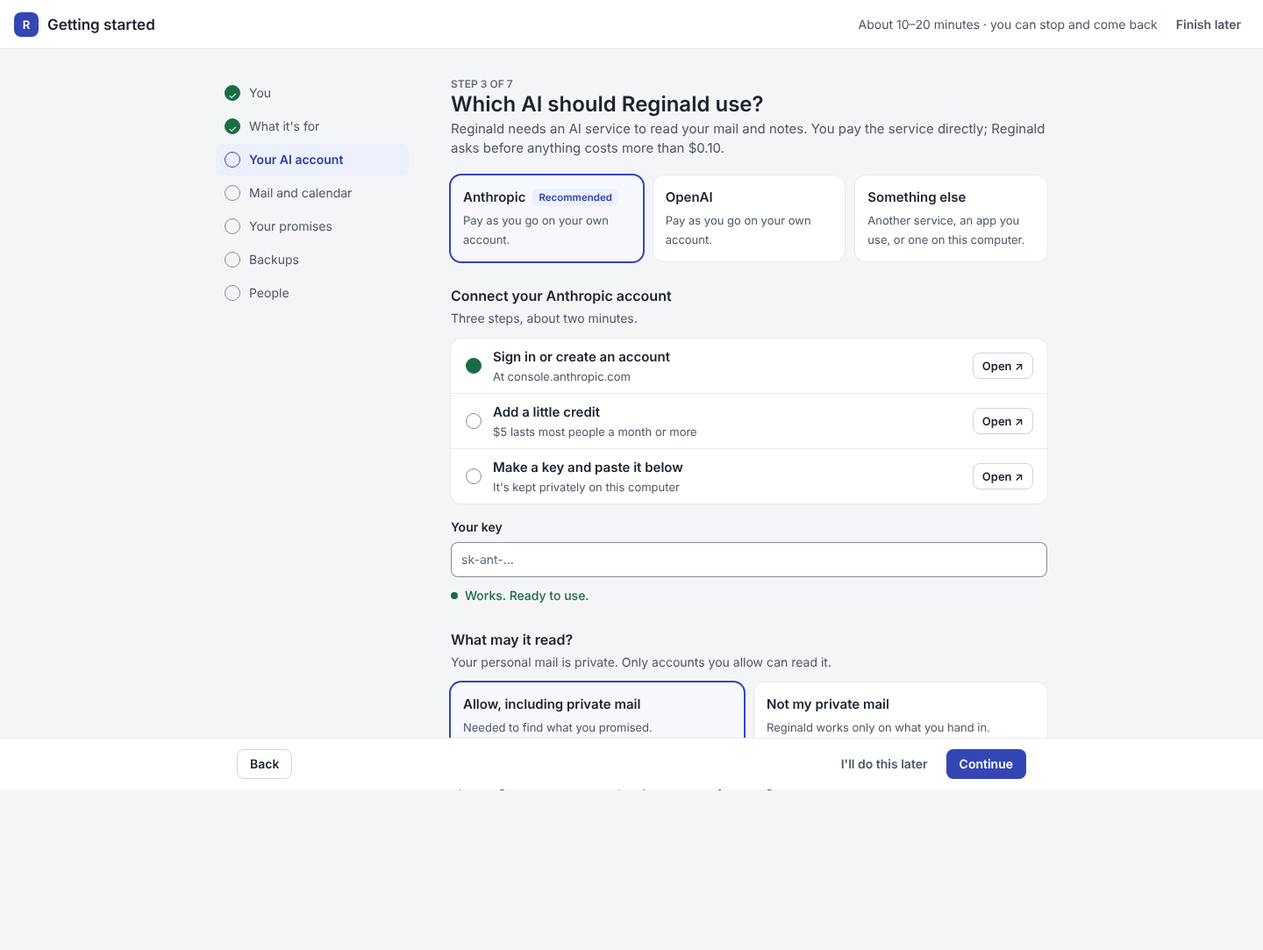
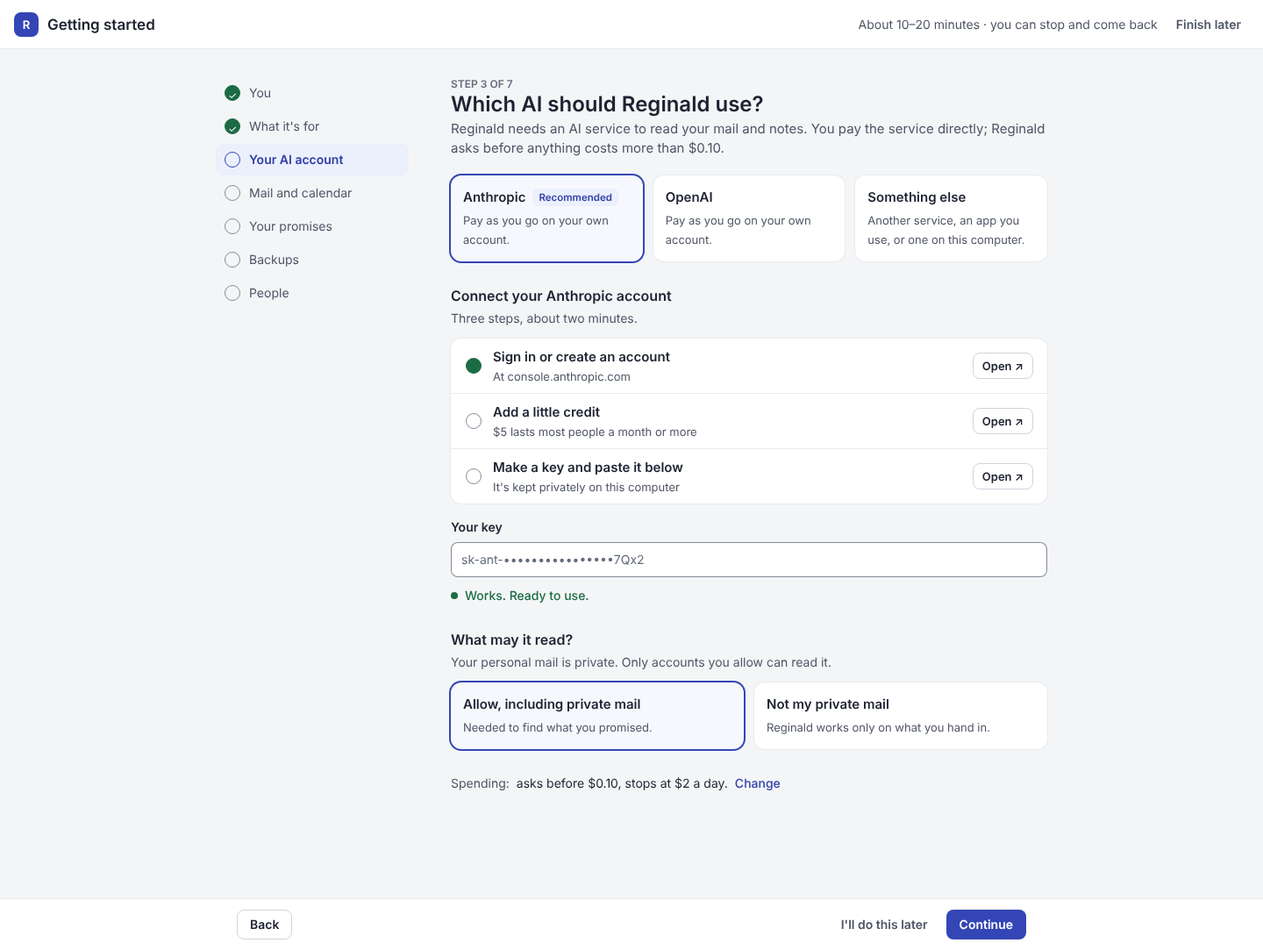
Visual review: path from 3.5 to 4.6
Adds PATH-TO-4.6.md: a cold re-score of the six mockups (3.6 on average),
what each rubric point needs at 3.5 and at 4.6, shared work VP01-VP15 in
two stages, a stricter scoring method, and exit criteria E13 (4.0) and
E14 (4.6), all mirrored in the tracking table. Fixes the setup mockup
render (footer over clipped content) and its key field, and re-renders
the mockups at full height.

Claude-Session: https://claude.ai/code/session_013bf5ZXfFsJPS4pTXMTMxYc

diff --git a/reviews/ui-ux-2026-10/sweep-04ffc21e/visual/mockups/setup-ai.html b/reviews/ui-ux-2026-10/sweep-04ffc21e/visual/mockups/setup-ai.html
@@ -11,7 +11,7 @@
   <div class="panel"><div class="row first"><div class="lead"><span class="check" style="background:var(--ok);border-color:var(--ok)"></span></div><div><div class="t">Sign in or create an account</div><div class="m">At console.anthropic.com</div></div><div class="acts"><a class="btn secondary sm">Open ↗</a></div></div>
   <div class="row"><div class="lead"><span class="check"></span></div><div><div class="t">Add a little credit</div><div class="m">$5 lasts most people a month or more</div></div><div class="acts"><a class="btn secondary sm">Open ↗</a></div></div>
   <div class="row"><div class="lead"><span class="check"></span></div><div><div class="t">Make a key and paste it below</div><div class="m">It's kept privately on this computer</div></div><div class="acts"><a class="btn secondary sm">Open ↗</a></div></div></div>
-  <div class="field" style="margin-top:16px"><label>Your key</label><div class="in">sk-ant-…</div></div>
+  <div class="field" style="margin-top:16px"><label>Your key</label><div class="in">sk-ant-••••••••••••••••7Qx2</div></div>
   <div class="okline" style="margin-top:10px"><span class="dot"></span>Works. Ready to use.</div></div>
  <div class="sect"><h2>What may it read?</h2><p>Your personal mail is private. Only accounts you allow can read it.</p>
   <div class="choice" style="grid-template-columns:1fr 1fr"><div class="opt on"><div class="n">Allow, including private mail</div><p>Needed to find what you promised.</p></div><div class="opt"><div class="n">Not my private mail</div><p>Reginald works only on what you hand in.</p></div></div></div>

diff --git a/reviews/ui-ux-2026-10/sweep-04ffc21e/visual/PATH-TO-4.6.md b/reviews/ui-ux-2026-10/sweep-04ffc21e/visual/PATH-TO-4.6.md
@@ -1,0 +1,152 @@
+# Path to 4.6: from "no longer looks broken" to "looks as good as the best"
+
+**Where this sits:** this extends `README.md` (the visual review at `04ffc21e`). The 3.5 bar in E9 is the gate for this round. This page sets the next two: **4.0 (E13)** and **4.6 (E14)**. It also covers the work, the standards and the scoring method for each.
+
+**For the host:** none of this blocks the current round. Finish E1–E12 first. The VP rows below are already in `../TRACKING.md`, under their stage, so nothing gets lost in between.
+
+## 1. Where we are
+
+| | Average | Lowest points | What it means |
+|---|---|---|---|
+| The app at `04ffc21e` | **2.6** | empty states, layout, hierarchy | Looks unfinished in places |
+| **The six mockups**, scored cold by a separate reviewer on the same rubric | **3.6** (3.5–3.7) | empty and edge states 2.5–3.0, phone 3.0–3.4, layout fit 3.0–3.7, components 3.5–3.7 | Clean and consistent, but not yet crafted |
+| Target | **4.6** | no point below 4.3 | A design lead at a top app company would ship it with only nits |
+
+**The honest consequence:** building the mockups exactly (E11) lands the app at about 3.5–3.7. That is enough for E9, and no more. **The gap to 4.6 is about one full point on every screen.** Most of it is in four places a static mockup doesn't show:
+1. **States:** empty, loading, error, offline, conflict, and 0, 1 or 100+ items.
+2. **The phone:** a real tab bar and rows that stack.
+3. **Interaction:** hover, pressed, focus, motion, keyboard and undo.
+4. **Craft:** shared edges, a tighter type scale, one primary per view, status that isn't colour alone.
+
+**Checked by the reviewer before acting on the cold scoring:**
+- **Correct:** the setup mockup's render was broken: the footer was stuck mid-page over clipped content. It's fixed and re-rendered, along with its before-and-after image. The setup mockup also showed "Works" next to an empty key. Now it shows a masked key.
+- **Not correct, so dropped:**
+  - "Meta text is below the contrast minimum." `--text-subtle` measures **4.91:1** on the page background and 5.0:1 on sunk wells, which passes AA.
+  - "The icons are placeholders." Only the mockups use placeholder squares. The app already has a line-icon set (`web/src/ui/Icon.tsx`).
+
+## 2. What each point needs, at 3.5 and at 4.6
+
+| Point | 3.5 looks like (this round) | 4.6 looks like (the target) |
+|---|---|---|
+| 1 Hierarchy | One primary per region; the page title says what the page is | **One primary per viewport**. The thing that needs the person outweighs everything else on screen. Supporting detail (a review list, a note) is folded until asked for. Every page leads with a one-line "so what" where it has numbers |
+| 2 Layout fit | No form-like lists, no pill column, no dead gutters | **Every block shares two edges** (one content grid). The rails end level with the main column or sit naturally under it. No card inside a card inside a card. The layout adapts to the amount of content: filters hidden below about 12 items, lists grouped by what matters (Overdue, Today, Upcoming) |
+| 3 Spacing | Consistent tokens | **One vertical rhythm**: two row heights, fixed gaps between sections. Titles in a list always start at the same x, whatever the row holds |
+| 4 Type | No 12px paragraphs; a defined scale | **A visible step at every level** (page 24, section 16, row 15, meta 13). Meta is in `--text-muted`, not subtle. No help paragraph on screen when a tooltip or toast at the moment of use can say it. Facts that matter are bolded in the meta ("30 min short") |
+| 5 Components | VC01–VC13 shared and used everywhere | **Two secondary styles only** (outline, accent text). **One status pattern** (a dot plus a word). Questions look different from to-dos. Every component has its hover, pressed, focus, disabled, loading and error states, shown in the style guide |
+| 6 Colour | Restrained accent; day and night both readable | **State is never colour alone:** a 3px edge or dot plus a word. Deltas have their direction defined once. Night cards lift off the canvas without needing their hairline. Focus is at least 3:1 on every surface, tinted rows included |
+| 7 Empty and edge | A designed EmptyState on every list | **A state sheet for every screen:** first run, filtered to nothing, loading (a skeleton matching row height, no layout shift), error with retry, offline or sync degraded, conflict ("Updated just now · See change"), and 0, 1 and 100+ |
+| 8 Phone | Nothing squeezed or broken | **Designed for a phone:** a 56px tab bar plus the safe area, 24px icons with labels and an active state, and add as a 44px accent circle. Rows stack their actions below the meta. Titles are never under 60% of the card's width. Filters live in one "Filter" sheet. Nothing hides under the bar |
+
+## 3. The ladder
+
+| Stage | Bar | Built from | Exit |
+|---|---|---|---|
+| **A, this round** | 3.5 overall, no point under 3 | VC01–VC13, the six mockups, the CI guards | E9–E12 |
+| **B, next round** | **4.0 overall, no point under 3.5**, including state and phone captures | Mockups v2 (VP14a), VP01–VP08 | **E13** |
+| **C, the target** | **4.6 overall, no point under 4.3**, by the stricter method in section 6 | Mockups v3 (VP14b), VP09–VP13, VP15 | **E14** |
+
+**Why in stages:** 4.6 is mostly craft, and craft only pays once the structure is right. Polishing the motion on a row that still has a pill column is wasted work. Each stage also builds the components the next stage polishes.
+
+## 4. The work: VP01–VP15
+
+Each VP row is shared work: fixed once, and every screen gains. The standards carry numbers so a check can verify them.
+
+| ID | Stage | What | The standard | Seen in the mockups |
+|---|---|---|---|---|
+| **VP01** | B | **One content grid** | A `--content-max` token. Title, filters, primary button, list, cards and setup footer all share the same left and right edges. The right rail ends level with the main column or flows under it | To-dos: the list ends at x=1244 while its controls end at 1408. Today: the inner table is inset 12px. Setup: the footer is narrower than the column. Connections: the sub-menu top sits off the title |
+| **VP02** | B | **Row anatomy v2** | A fixed lead slot: 0, 24 (check) or 56 (pill). Titles share one left edge. Two row heights from tokens (one-line and two-line meta). Titles clamp at two lines and meta truncates at one, with a tooltip. The owner is shown only when it isn't you. A question has its own glyph, not a tickable circle | Today: Clash titles at x=337 against 300. To-dos: "Robin Calloway" on five of six rows. Person: a question drawn as a to-do |
+| **VP03** | B | **Type scale v2** | Page title 24/30. Section 16/600. Row 15/600. Meta 13 `--text-muted`. Group labels 11 uppercase with 0.04em tracking and a readable count. 12px only for pills and column headers. Deltas at least 13px | The same bold-15 plus grey-13 pair repeats about 18 times on Today. Counts in group labels get lost. Quality deltas are the smallest text in their tile |
+| **VP04** | B | **Primary discipline** | At most one filled button per viewport. The header's "Hand something in" turns secondary on pages that have their own primary. Two secondary styles only (outline, accent text). No bare-text buttons. Today's "Look over N things" is folded by default | Today shows three filled buttons at once and four secondary styles. To-dos has two add actions. Person leads with "Edit" when the main action is "Add a to-do" or "Draft a message" |
+| **VP05** | B | **Status and state rows** | One `.status` (a dot plus a word, 13px) replaces the three pill styles. `row[data-state=warn\|danger]` gets a 3px left edge and a soft tint. Delta direction is defined once (up is good or bad, per measure). The header status reflects any failing connection | Connections: a retrying row looks healthy, and the header still says "All good". To-dos: overdue is shown in red text only |
+| **VP06** | B | **Night elevation and focus** | `--surface` 2–3 L above `--canvas` by night, plus a 1px inner highlight on cards. A focus ring of at least 3:1 on every surface, the tinted decide rows and selected cards included | Night cards register only by their hairline |
+| **VP07** | B | **A state sheet per screen** | For every inventory screen: first run, filtered to nothing, loading (a skeleton at the real row height, within 150ms, no layout shift), error with retry, offline or sync degraded, conflict, and 0, 1 and 100+. Each shown in the style guide and in mockups v2 | No mockup shows any state but the happy path, except one retrying row and one empty field. Quality shows "3 mistakes" over two rows, and a date range that doesn't match its table |
+| **VP08** | B | **Phone shell** | A tab bar 56px plus the safe area, 24px icons, 11px labels, an active state, and a centre add as a 44px accent circle. Search and Hand in become header icons. At 480px and under, row actions drop below the meta. Titles at least 60% of the card's width. Filters in one sheet. Bottom padding equal to the bar's height | Today's phone render: a text-only bar, the Decide title squeezed to about 100px over four lines, left edges at 28 and 48. To-dos: the add button and three filter pills push content down about 240px |
+| **VP09** | C | **Interaction and motion** | Hover within 100ms, pressed within 60ms. Row actions reveal at 120ms ease-out with no layout shift. Ticking fills the circle in 150ms, collapses the row in 200ms, and shows an Undo toast with a visible countdown. Expanding takes 200ms, keeps the trigger in place, and survives a polling refresh (nothing new moves the target under the cursor). Overlays scale in from 0.98 over 200ms, with a scrim, a focus trap, Esc to close, and focus back on the trigger. All through `--dur-*`, so reduced motion turns it off | Not visible in a mockup. The tokens and the reduced-motion rule already exist in `tokens.css` |
+| **VP10** | C | **Keyboard** | `/` search, `j`/`k` move, `x` or Space tick, `e` edit, Enter open, Esc close and return focus. Shortcuts appear in tooltips and in the `?` sheet. Focus order matches reading order | Not visible in a mockup |
+| **VP11** | C | **Content resilience** | Long names, roles, emails and folder paths: paths truncate in the middle, emails truncate with a tooltip. 40+ rows. 99+ counts. Dates in words for the locale. 24-hour time where set. Text up to 30% longer. **Add long-name and many-item fixtures to both fictional workspaces** so every capture exercises them | Person: the email ends 10px from the card edge and will overflow. Connections: a raw folder path |
+| **VP12** | C | **In-between widths** | Checked at 1024 and 768 as well as 1440 and 390. The right rail drops under the main column below 1100. The left menu folds to icons below 900. No sideways scroll anywhere from 360 to 1920 | Only 1440 and 390 are rendered. At 1024, Today's main column would get about 450px |
+| **VP13** | C | **Hit targets** | Touch: 24px visible, 44px to hit. Desktop: 32px minimum to hit. At least 8px between neighbours. The "…" is at least 4.5:1 when shown and fully opaque on hover | To-dos: 18px check circles and a 16px "…" |
+| **VP14** | B, C | **Mockups v2, then v3** (reviewer's work) | **v2:** fixes every per-mockup gap in section 5, adds phone renders for all six, a state sheet per mockup, and real icons. Re-scored cold, it must reach 4.0. **v3:** the polish pass with short interaction recordings (tick and undo, expand, open a drawer, keyboard through a list), re-scored cold to 4.6 | |
+| **VP15** | C | **Design QA in the build** | Every UI batch hands over before-and-after captures from the fixed list in section 6. Screenshot comparisons in CI on every inventory screen (day, night, phone) so nothing slips back. The style guide shows every component in every state, in both themes | |
+
+## 5. The gaps in each mockup (what v2 fixes)
+
+From the cold scoring. Each bullet gives what's wrong now, then the fix.
+
+- **Today (3.5)**
+  - Three filled buttons on screen. Fix: one.
+  - The opened review is the biggest thing on the page. Fix: fold it to one row.
+  - The greeting card repeats the header. Fix: drop it, or make it the "all clear" state.
+  - The rail ends 150px above the main column. Fix: per VP01.
+  - Clash titles start at a different x. Fix: VP02.
+  - The phone Decide row squeezes the title to four lines. Fix: stack it.
+  - Not shown: the all-clear Today, loading, sync failed, 30+ items. Fix: draw them.
+- **To-dos (3.6)**
+  - The list and controls have different right edges. Fix: VP01.
+  - The rows are unsorted. Fix: group them as Overdue, Today, Upcoming, Waiting, No date.
+  - There are two add actions. Fix: keep the inline row and drop the header button.
+  - The add hint sits on the input line. Fix: show it below the input, on focus only.
+  - The footer help line belongs elsewhere. Fix: say it in the toast at the moment of use.
+  - "Pick an owner" breaks the rows' rhythm. Fix: move it into the meta line as a link.
+  - Not shown: no to-dos, Questions at 0, filtered to nothing, the undo toast, a done row.
+- **Connections (3.6)**
+  - The retrying row looks healthy, and the header says "All good". Fix: a tinted row with the reason and "Reconnect", and a header status that agrees.
+  - Two selected states at once (left menu and Settings menu). Fix: keep the left menu neutral.
+  - The two cards have different anatomy. Fix: one card pattern.
+  - Actions sit at both the card and the row level. Fix: pick one.
+  - Two pill styles mean different things. Fix: VP05.
+  - A raw folder path. Fix: show the folder name and truncate in the middle.
+  - Not shown: no connections, sign-in expired, a long list, reconnecting, the remove confirm.
+- **Quality (3.6)**
+  - No one-line "so what". Fix: add a headline sentence above the tiles.
+  - The mistakes list, the only thing to act on, sits at table weight. Fix: lift it.
+  - The "Your own count" form outweighs the data it supports.
+  - The sparklines show 5 bars for "last 4 weeks", with no labels.
+  - The count says 3 mistakes but 2 rows show, and the date range disagrees with the table.
+  - "Look" has no object. Fix: say "Review".
+  - Not shown: a new account with no data, loading, error, no prior period.
+- **Person (3.7)**
+  - No avatar. Fix: 56px initials.
+  - A redundant "Person" pill.
+  - The primary is "Edit". Fix: make "Add a to-do" or "Draft a message" the primary.
+  - The tabs duplicate the overview.
+  - The details card top sits 10px off the tabs.
+  - The email will overflow.
+  - The timeline has no actor glyphs.
+  - A question drawn as a to-do.
+  - Not shown: no open items, no activity, long names, several emails.
+- **Setup: Your AI account (3.6)**
+  - Four decisions on one step. Fix: move "What may it read?" to its own step.
+  - Three different widths for the rail, column and footer. Fix: VP01.
+  - Uneven gaps between sections.
+  - Selection shown by border alone. Fix: add a check mark.
+  - The sub-steps are drawn as radio buttons and all their buttons share one weight. Fix: checklist glyphs, and only the next step's button stands out.
+  - "Finish later" and "I'll do this later" both appear. Fix: keep one.
+  - Not shown: a wrong key, checking, a network failure, the "Something else" path, the phone.
+  - *(Render bug and the key contradiction: fixed.)*
+
+## 6. How 4.6 is scored, so the number means something
+
+At 4.6 the differences are small, and one reviewer's score varies by about ±0.3. So E14 uses a stricter method than E9:
+
+1. **A fixed capture list** for every inventory screen:
+   - day, night, 390, 768 and 1024
+   - plus the state sheet (VP07)
+   - plus hover, focus and pressed on one row and one button
+   - plus five short recordings: tick and undo; expand a review; open and close a drawer from a button with the keyboard; the setup step with a wrong key; adding on the phone
+2. **Two independent reviewers** score from the same captures without seeing each other's scores. The lower score counts.
+3. **The owner signs off** on the recordings. A number alone doesn't settle 4.6.
+4. **No screen drops** between rounds (VP15's screenshot comparisons enforce it).
+
+## 7. Exit criteria (added to `../TRACKING.md`)
+
+- **E13 (Stage B, 4.0).**
+  - Every inventory screen scores **at least 4.0 overall with no point below 3.5**, from day, night and phone captures and its state sheet.
+  - VP01–VP08 done.
+  - Mockups v2 re-scored cold at 4.0 or higher, then built.
+- **E14 (Stage C, 4.6).**
+  - Every inventory screen scores **at least 4.6 overall with no point below 4.3**, by the method in section 6.
+  - VP09–VP13 and VP15 done.
+  - Mockups v3 built.
+  - The screenshot comparisons in CI pass.
+  - The owner has signed off on the recordings.

diff --git a/reviews/ui-ux-2026-10/sweep-04ffc21e/TRACKING.md b/reviews/ui-ux-2026-10/sweep-04ffc21e/TRACKING.md
@@ -122,7 +122,29 @@ One row per shared component (VC) and per screen (VS). Seen at `04ffc21e`. Fold 
 | VS18 | Visual | Settings › Connections | Follow the `connections` mockup: an account card with a status pill and a sources table. Adding is a two-step drawer | V3-1, V3-2, V3-11 (masters X09, X53) | Screen re-scores at least 3.5, no point below 3 | To do | | | |
 | VS19 | Visual | Settings › Add-ons | Each card: name, publisher, one line, status pill, one action. Details in a disclosure | V3-14 (masters X52) | Screen re-scores at least 3.5, no point below 3 | To do | | | |
 
-## Exit criteria (README section 3, plus visual E9–E12)
+## Path to 4.6 (visual/PATH-TO-4.6.md)
+
+Stage B items gate E13 (4.0); stage C items gate E14 (4.6). None block the current round.
+
+| ID | Sev | Area | Title | Sources | Done when | Status | Commit | Test | Checked |
+|---|---|---|---|---|---|---|---|---|---|
+| VP01 | Visual B | Shared | One content grid | PATH-TO-4.6 §4 | Title, filters, primary, list, cards and setup footer share two edges via a content-max token | To do | | | |
+| VP02 | Visual B | Shared | Row anatomy v2 | PATH-TO-4.6 §4 | Fixed lead slot, titles share one edge, two row heights, 2-line title clamp, owner only when not you, questions not tickable | To do | | | |
+| VP03 | Visual B | Shared | Type scale v2 | PATH-TO-4.6 §4 | 24/16/15/13 steps, meta in text-muted, 11px uppercase group labels, 12px only for pills and column headers | To do | | | |
+| VP04 | Visual B | Shared | Primary discipline | PATH-TO-4.6 §4 | At most one filled button per viewport; two secondary styles; Today's review folded by default | To do | | | |
+| VP05 | Visual B | Shared | Status and state rows | PATH-TO-4.6 §4 | One dot-plus-word status; warn/danger rows with edge and tint; colour never alone; header status agrees with connections | To do | | | |
+| VP06 | Visual B | Shared | Night elevation and focus | PATH-TO-4.6 §4 | Surface lifts off canvas by night; focus ring at least 3:1 on every surface incl. tinted rows | To do | | | |
+| VP07 | Visual B | Shared | State sheet per screen | PATH-TO-4.6 §4 | First run, filtered empty, skeleton loading without shift, error, offline, conflict, 0/1/100+ for every inventory screen | To do | | | |
+| VP08 | Visual B | Shared | Phone shell | PATH-TO-4.6 §4 | 56px tab bar with icons and active state, header icons, rows stack actions at 480px and under, filters in one sheet | To do | | | |
+| VP09 | Visual C | Shared | Interaction and motion | PATH-TO-4.6 §4 | Hover, pressed, reveal, tick-and-undo, expand, overlay timings per PATH section 4, all via --dur-* tokens | To do | | | |
+| VP10 | Visual C | Shared | Keyboard | PATH-TO-4.6 §4 | / j k x e Enter Esc work on every list; focus returns to the trigger; shown in tooltips and the ? sheet | To do | | | |
+| VP11 | Visual C | Shared | Content resilience | PATH-TO-4.6 §4 | Long names, emails, paths, 40+ rows, 99+ counts, longer text; fixtures added to both fictional workspaces | To do | | | |
+| VP12 | Visual C | Shared | In-between widths | PATH-TO-4.6 §4 | Checked at 1024 and 768; rail drops under 1100; menu folds under 900; no sideways scroll 360–1920 | To do | | | |
+| VP13 | Visual C | Shared | Hit targets | PATH-TO-4.6 §4 | 24px visible / 44px touch, 32px desktop, 8px apart | To do | | | |
+| VP14 | Visual B, C | Shared | Mockups v2 then v3 (reviewer) | PATH-TO-4.6 §4 | v2 re-scored cold at 4.0 or more with phone and state sheets; v3 at 4.6 with interaction recordings | To do | | | |
+| VP15 | Visual C | Shared | Design QA in the build | PATH-TO-4.6 §4 | Before/after captures per UI batch; screenshot comparisons in CI on every inventory screen; style guide shows every state | To do | | | |
+
+## Exit criteria (README section 3, plus visual E9–E12, then E13–E14 for the path to 4.6)
 
 | # | Criterion | Status | Evidence | Checked |
 |---|---|---|---|---|
@@ -138,3 +160,5 @@ One row per shared component (VC) and per screen (VS). Seen at `04ffc21e`. Fold 
 | E10 | VC01–VC13 built as shared components or tokens and used everywhere; the style guide shows each in both themes | To do | | |
 | E11 | The six mockup screens built to their mockup (or an owner-approved variant), shown side by side in the hand-over | To do | | |
 | E12 | Visual guards in CI: no native unstyled fieldset/select/date/time/file; no paragraph under 13px; no autofocus on page load; at most one solid primary per region; no empty leading column in a row | To do | | |
+| E13 | Stage B: every inventory screen at least 4.0 overall, no point below 3.5, from day, night, phone and state-sheet captures; VP01–VP08 done; mockups v2 at 4.0 or more, built | To do | | |
+| E14 | Stage C: every inventory screen at least 4.6 overall, no point below 4.3, by the PATH-TO-4.6 §6 method (fixed captures and recordings, two reviewers, lower counts, owner signs off); VP09–VP13 and VP15 done; mockups v3 built; CI screenshot comparisons pass | To do | | |

diff --git a/reviews/ui-ux-2026-10/sweep-04ffc21e/visual/README.md b/reviews/ui-ux-2026-10/sweep-04ffc21e/visual/README.md
@@ -4,7 +4,7 @@
 
 **Seen at:** all findings come from build `04ffc21e`. Screens will change batch by batch, so each item names the screen and the master `X` id it belongs to. The host folds each item into the batch already touching that screen.
 
-**Question asked:** do the pages look good by today's standards for modern web apps (Linear, Notion, Things, Superhuman, Stripe)? That means:
+**Question asked:** do the pages look good by today's standards for modern web apps (the best-known task, mail, notes and payments apps)? That means:
 - calm, with a clear hierarchy and one obvious action
 - consistent components and purposeful spacing
 - type that tells the story, and restrained colour
@@ -158,6 +158,8 @@ These are added to `../TRACKING.md` as E9–E12. The round isn't done until they
   - at most one solid primary button per region (a page header, a card, a dialog footer)
   - no list row with an empty leading column
 
+**Beyond this round:** 3.5 is the gate for now, not the goal. `PATH-TO-4.6.md` sets E13 (4.0) and E14 (4.6). It covers the work (VP01–VP15), a standard for each point, and a stricter scoring method. A separate reviewer scored the six mockups cold at **3.6 on average**. So building them gets the app to E9 and no further. The rest of the way is states, the phone, interaction and craft.
+
 ## 7. Gaps (no screenshot in the sweep)
 
 Each appendix lists what it couldn't see. Taken together:
@@ -165,6 +167,6 @@ Each appendix lists what it couldn't see. Taken together:
 - **Night:** What changed with data; the opened Today line; Follow-ups' message pane; To-dos' menu and editors; Add to schedule; the Hand-in drawer; the Ask pane.
 - **Phone:** the Schedule with events; dialogs and menus; Files; the organization page.
 - **A real project page** (as opposed to a side's page); Handover with a conflict; Backups with a folder and key set.
-- **Anthropic and OpenAI error states;** the sign-in popup.
+- **The AI providers' error states;** the sign-in popup.
 
 The fresh captures for E9 must cover these, and I'll score them in the re-sweep.

diff --git a/reviews/ui-ux-2026-10/sweep-04ffc21e/README.md b/reviews/ui-ux-2026-10/sweep-04ffc21e/README.md
@@ -22,6 +22,7 @@
 | `appendix/auto-checks.md` | The automatic checks run on every screen opened, with each hit |
 | `shots/<sweep>/<name>.jpg` | 381 screenshots: every one a finding cites. Each name matches the appendix |
 | `visual/README.md` | The visual review: a score for every screen, shared component fixes (VC01 to VC13), findings by screen (VS01 to VS19), six mockups with before and after, visual exit criteria E9 to E12 |
+| `visual/PATH-TO-4.6.md` | The path past 3.5: where the mockups really score (3.6), what each point needs at 4.6, shared work VP01–VP15, the scoring method, and exit criteria E13 (4.0) and E14 (4.6) |
 | `visual/appendix/`, `visual/mockups/`, `visual/before-after/` | The three visual reviews in full, the mockup pages and their renders, and side-by-side images of today's screen and the mockup |
 
 **Source ids:**
